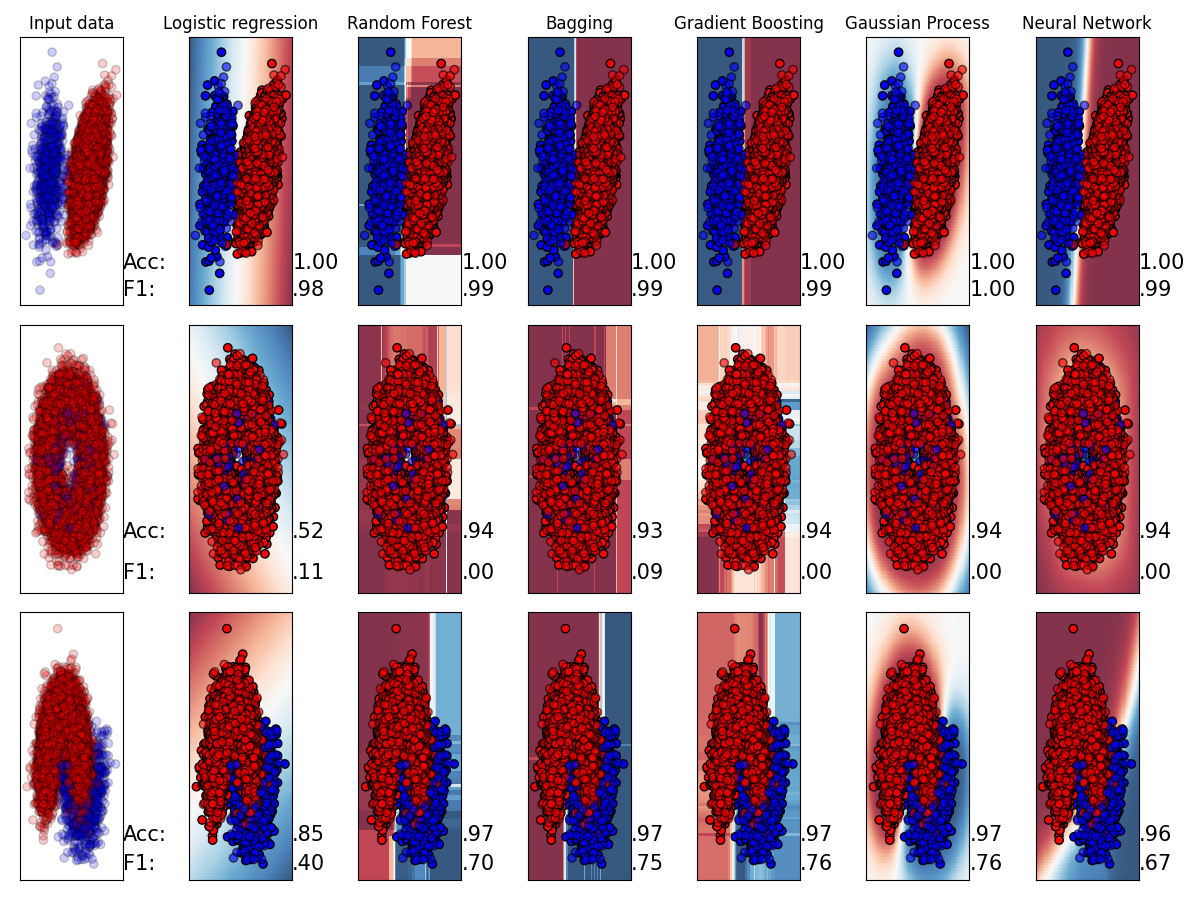
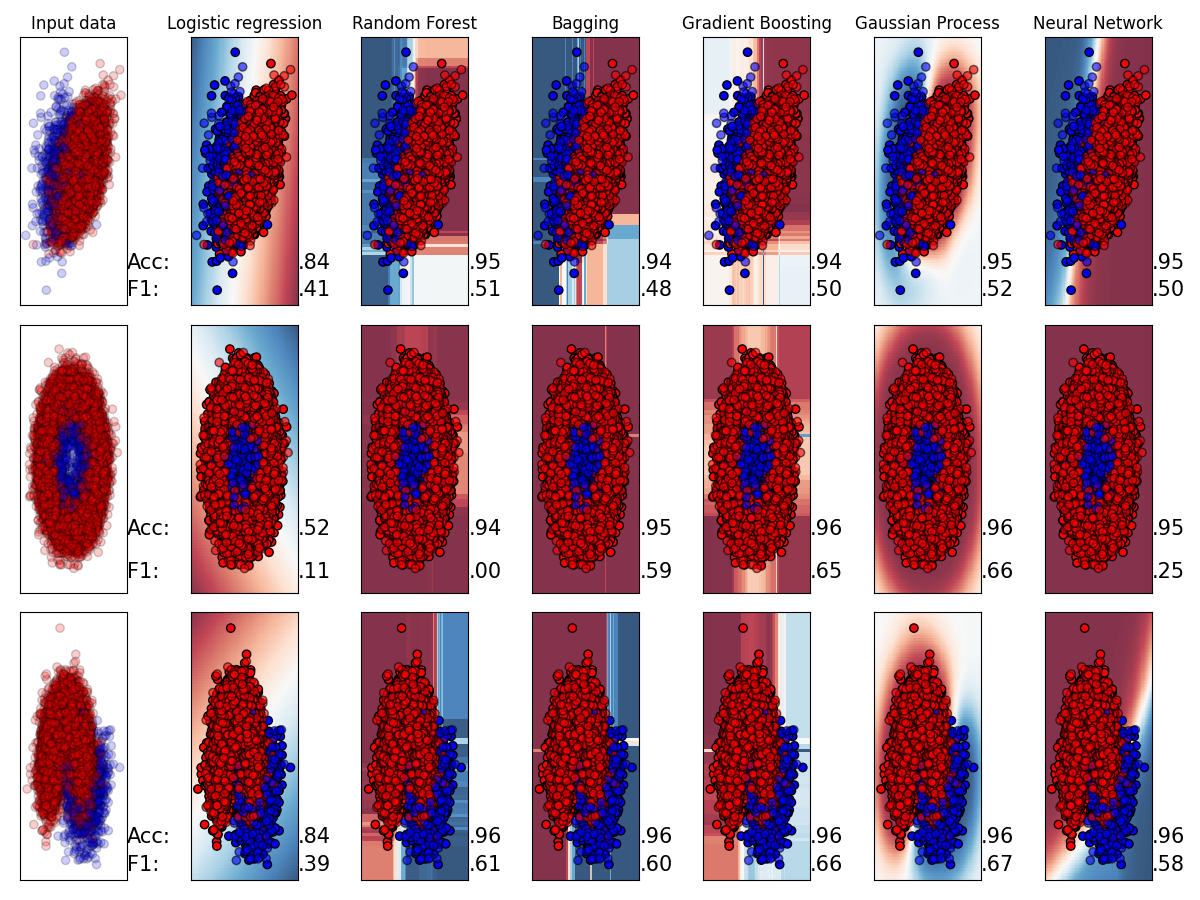
fix: made all sets similarly noisy

diff --git a/generation_and_classification.py b/generation_and_classification.py
@@ -12,7 +12,7 @@ from sklearn.preprocessing import StandardScaler
 import os
 
 
-def create_linearly_separable(num_samples, imbalance_ratio):
+def create_linearly_separable(num_samples, imbalance_ratio, class_sep):
     X, y = make_classification(
         n_features=2,
         n_redundant=0,
@@ -24,7 +24,7 @@ def create_linearly_separable(num_samples, imbalance_ratio):
         n_samples=num_samples,
         flip_y=0,
         n_classes=2,
-        class_sep=3
+        class_sep=class_sep
     )
     rng = np.random.RandomState(2)
     X += 2 * rng.uniform(size=X.shape)
@@ -45,13 +45,18 @@ def create_linearly_separable(num_samples, imbalance_ratio):
 
 def create_not_linearly_separable(fn, num_in_majority_group, num_in_minority_group, noise):
 
+    # Adjust noise for make_circles which is very sensitive
+    if fn == make_circles:
+        noise = noise * 2/3
+        print("Noise for circles adjusted...")
+
     try:
         X, y = fn(
-            random_state=1, n_samples=[num_in_majority_group, num_in_minority_group], noise=noise
+            random_state=1, n_samples=[num_in_majority_group, num_in_minority_group], noise=noise, factor=0.5
         )
-    except TypeError:  # make_blobs doesn't have a noise parameter - they're already noisy
+    except TypeError:  # no factor parameter
         X, y = fn(
-            random_state=1, n_samples=[num_in_majority_group, num_in_minority_group]
+            random_state=1, n_samples=[num_in_majority_group, num_in_minority_group], noise=noise
         )
 
     xy = np.c_[X, y]
@@ -74,10 +79,11 @@ def create_all_data(
         imbalance_ratio,
         num_in_majority_group,
         num_in_minority_group,
-        noise):
+        noise,
+        class_sep):
     df_dict = {}
     df_dict['linear'] = create_linearly_separable(
-        num_samples, imbalance_ratio)
+        num_samples, imbalance_ratio, class_sep)
     for fn in not_linearly_separable_fns:
         df_dict.update(create_not_linearly_separable(
             fn, num_in_majority_group, num_in_minority_group, noise))

diff --git a/main.py b/main.py
@@ -15,7 +15,7 @@ from datetime import datetime
 # Settings - define num samples
 NUM_SAMPLES = 10_000
 IMBALANCE_RATIO = 0.93
-NOISE = 0.2  # non-linear - 0.25 is noisy, 0.02 not noisy.
+NOISE = 0.3  # non-linear - 0.3 is noisy, 0.02 not noisy.
 CLASS_SEP = 1  # linear. 1 noisy, 3 not noisy.
 
 
@@ -56,7 +56,8 @@ def main():
         imbalance_ratio=IMBALANCE_RATIO,
         num_in_majority_group=num_in_majority_group,
         num_in_minority_group=num_in_minority_group,
-        noise=NOISE)
+        noise=NOISE,
+        class_sep=CLASS_SEP)
 
     draw_classification_plot(df_dict,
                              classifier_names,
